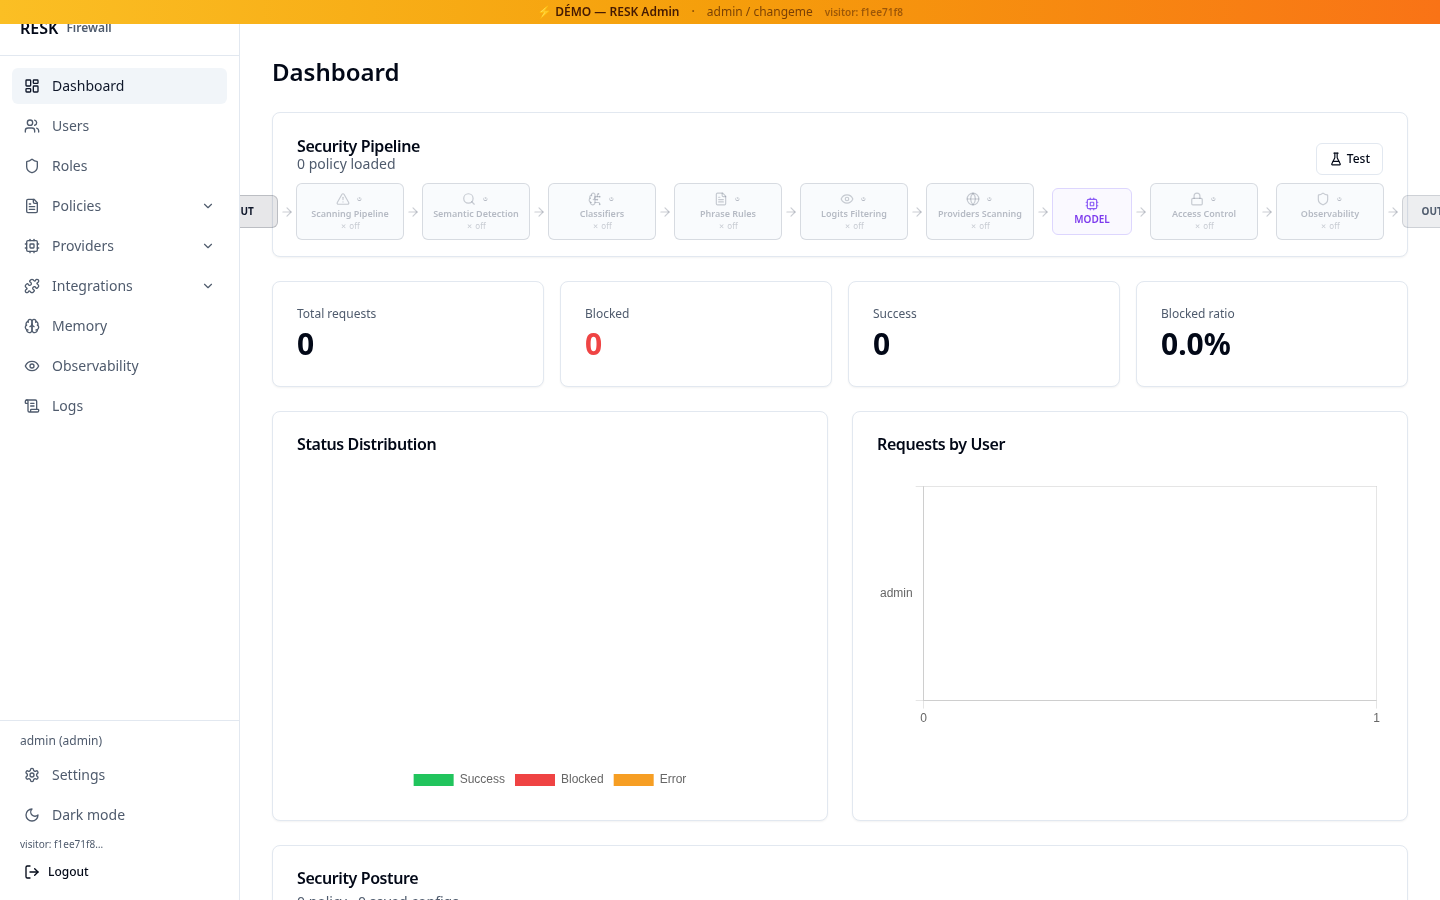
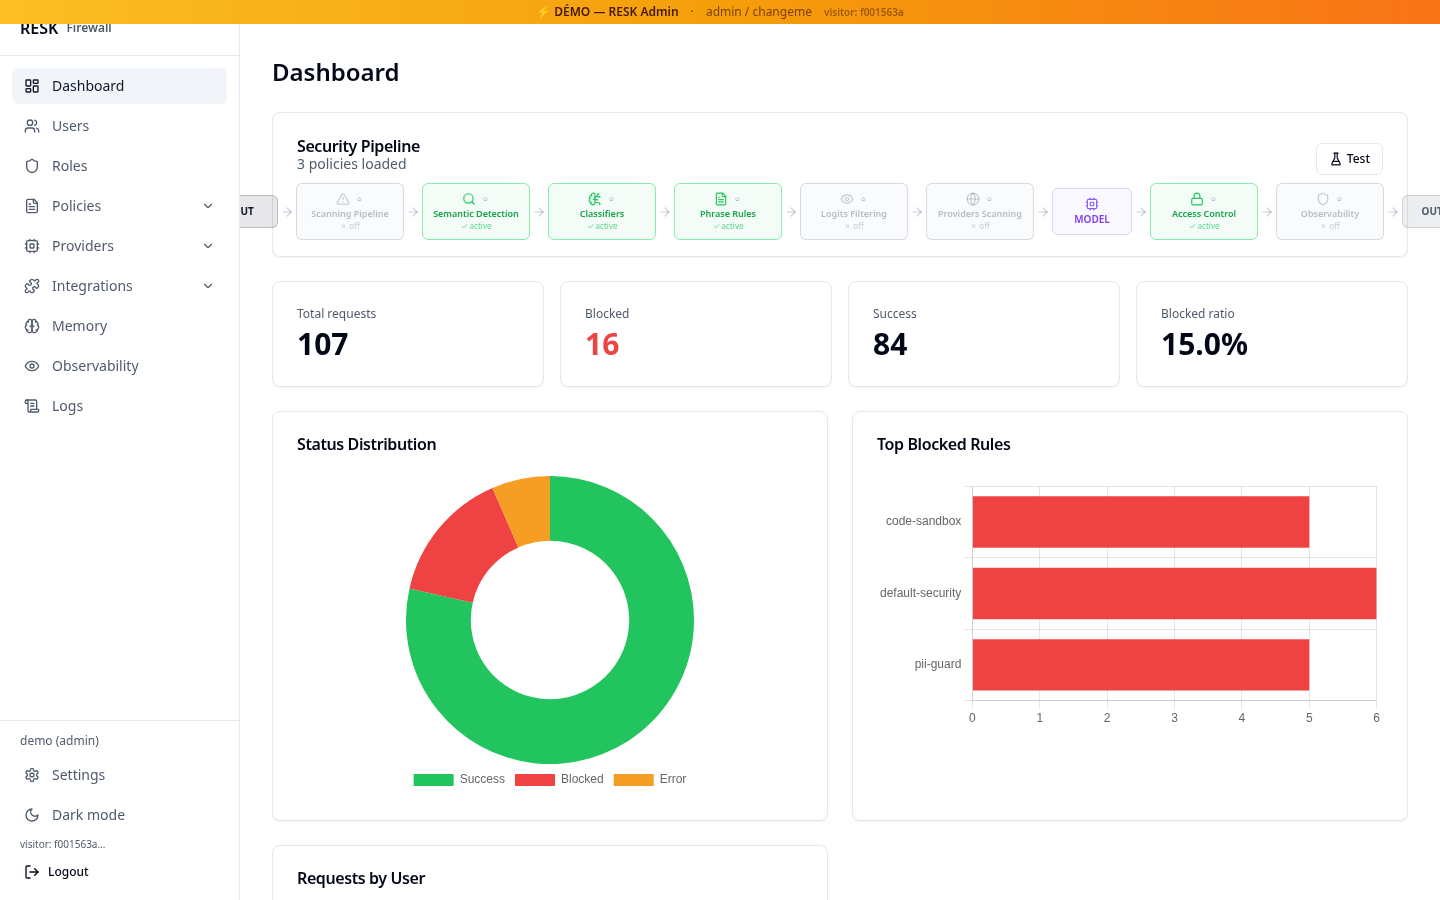
docs: add email-gate screenshot and refresh dashboard capture

diff --git a/README.md b/README.md
@@ -2,6 +2,8 @@
 
 [![Tableau de bord ReskSafety](screenshot-dashboard.png)](https://demo.resk.fr)
 
+[![Barrière email](screenshot-gate.png)](https://demo.resk.fr)
+
 **Démo : [demo.resk.fr](https://demo.resk.fr)** · **Documentation : [resk.fr/fr/docs/demo](https://resk.fr/fr/docs/demo/)** · **Site : [resk.fr](https://resk.fr)**
 
 Ce dépôt public documente et distribue le kit de la démo hébergée **ReskSafety** : accès protégé par email, identifiants de démonstration, parcours guidé, capture d'écran et fichiers de déploiement. Le code source complet de l'application est privé ; il est disponible pour les clients, évaluateurs et partenaires sur demande.
